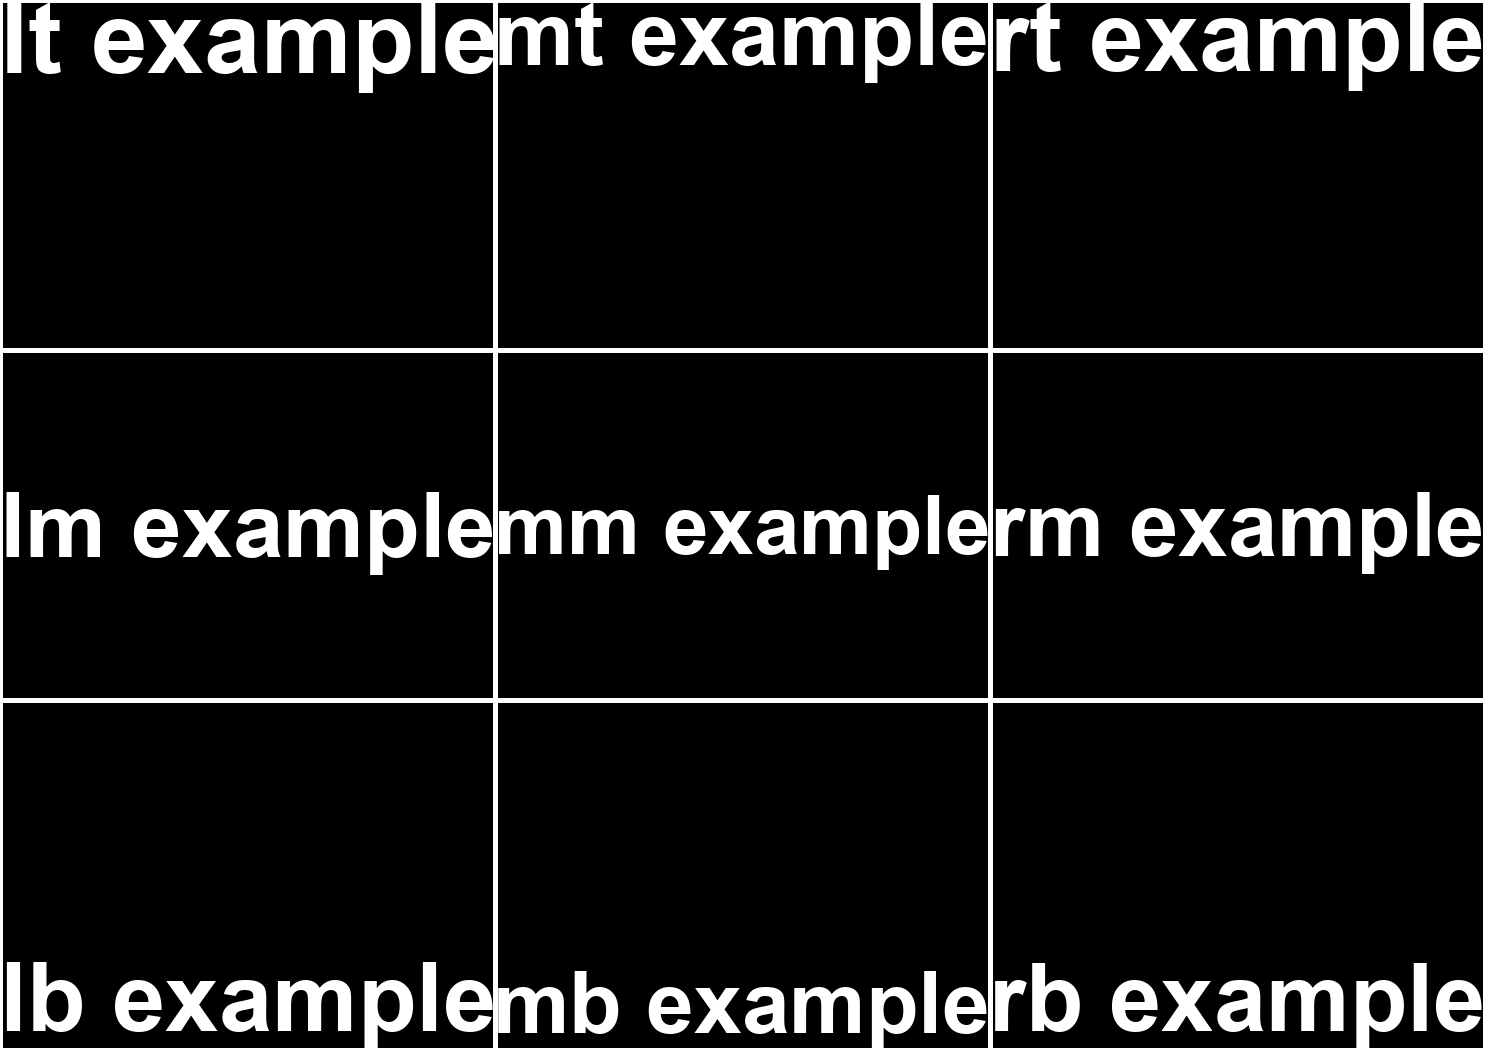
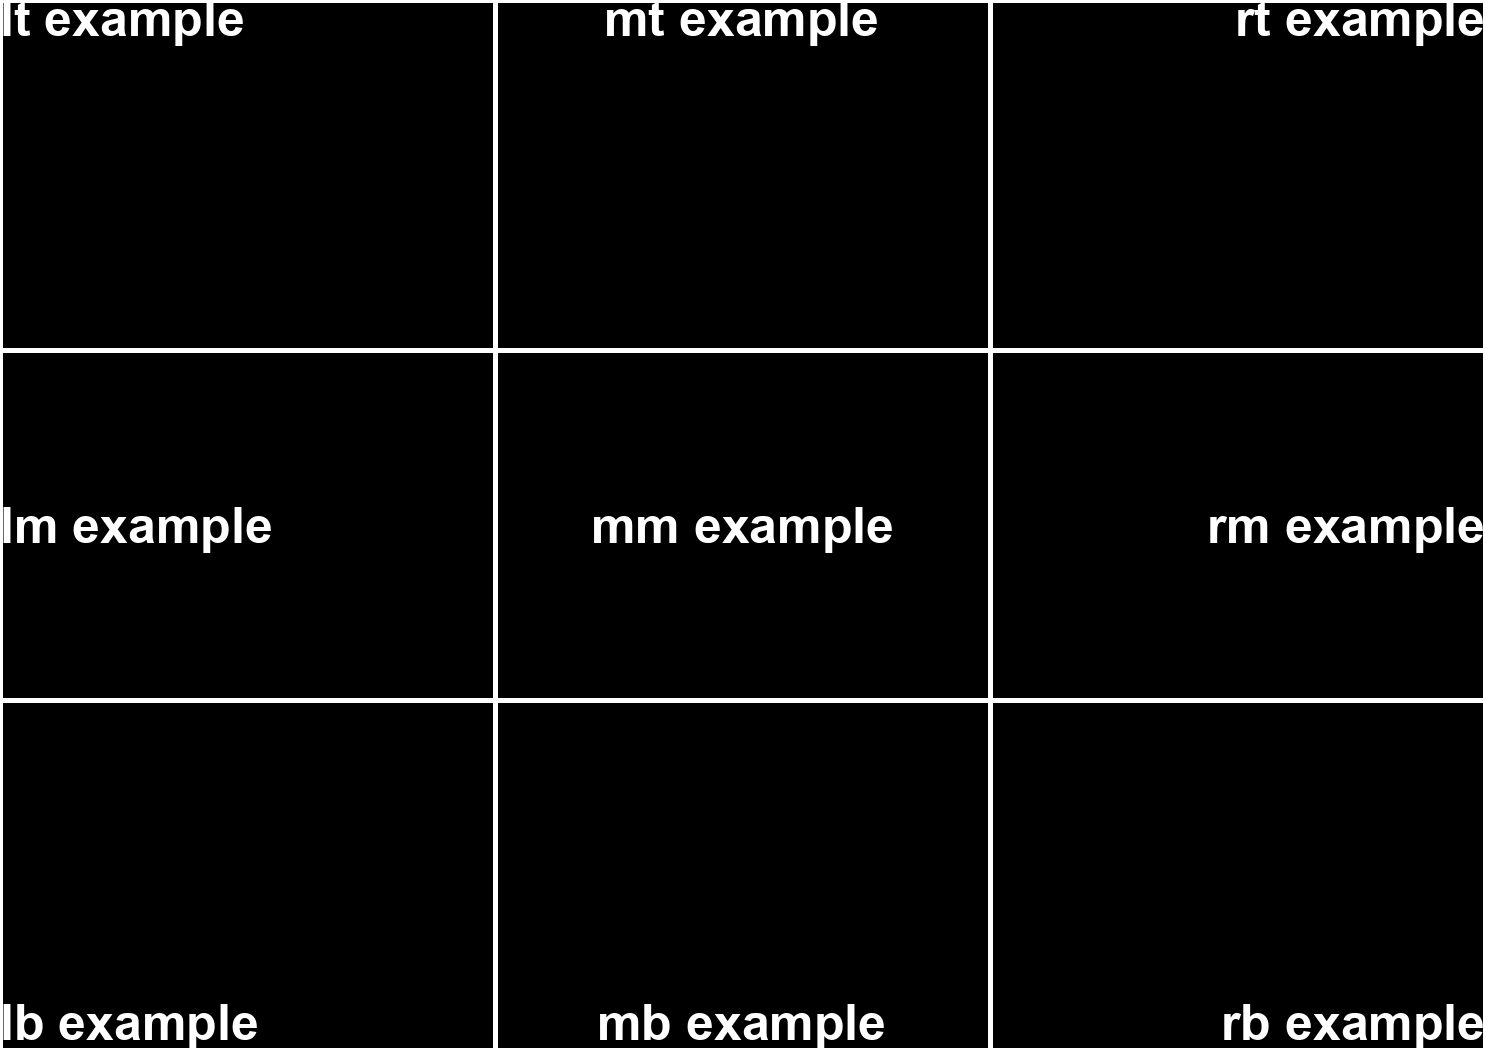
choitto onnazakari wo doishiyou

Changed region(s): [[0.0, 0.9143, 1.0, 1.0], [0.0, 0.0, 1.0, 0.0914], [0.0, 0.4571, 1.0, 0.5486]]

diff --git a/test/text_anchors.py b/test/text_anchors.py
@@ -37,11 +37,14 @@ def walk(
 ) -> None:
     for field_name, field_text in fields_text.items():
         field_attributes: TextConfig = fields_config[field_name]  # type: ignore
-        smack_draw.text(
-            data=field_text,
-            field_coords=fields_coords[field_name],
-            field_attributes=field_attributes,
-        )
+        for field_coords_type in fields_coords[field_name]:
+            field_coords = field_coords_type.coords
+            # field_type = field_coords_type.type
+            smack_draw.text(
+                data=field_text,
+                field_coords=field_coords,
+                field_attributes=field_attributes,
+            )
 
 
 for y_anchor in vertical_anchors:
@@ -59,7 +62,7 @@ for y_anchor in vertical_anchors:
             anchor=text_anchor,  # type: ignore
             style=TextStyle(fill="#fff"),
         )
-    data_field_fmt_rows.append(RelativeContainer(fr=1, cells=y_anchor_list))
+    data_field_fmt_rows.append(RelativeContainer(fr=1, cells=y_anchor_list, direction="lr"))
 
 data_field_fmt = RelativeDataFieldFormat(cells=data_field_fmt_rows)
 
@@ -77,12 +80,13 @@ walk(fields_text=fields_text, fields_coords=fields_coords, fields_config=fields_
 
 def draw_boxes() -> None:
     for field_coords in fields_coords.values():
-        draw.rectangle(field_coords.list(), outline="white", width=3)
-        # x1, y1, x2, y2 = field_coords.list()
-        # middle_x = round((x1 + x2) / 2)
-        # middle_y = round((y1 + y2) / 2)
-        # draw.line((middle_x, y1, middle_x, y2), fill="white", width=1)
-        # draw.line((x1, middle_y, x2, middle_y), fill="white", width=1)
+        for field_coords_type in field_coords:
+            draw.rectangle(field_coords_type.coords.list(), outline="white", width=3)
+            # x1, y1, x2, y2 = field_coords.list()
+            # middle_x = round((x1 + x2) / 2)
+            # middle_y = round((y1 + y2) / 2)
+            # draw.line((middle_x, y1, middle_x, y2), fill="white", width=1)
+            # draw.line((x1, middle_y, x2, middle_y), fill="white", width=1)
 
 
 draw_boxes()

diff --git a/test/text_anchors_multiline.py b/test/text_anchors_multiline.py
@@ -39,11 +39,14 @@ def walk(
 ) -> None:
     for field_name, field_text in fields_text.items():
         field_attributes: TextConfig = fields_config[field_name]  # type: ignore
-        smack_draw.text(
-            data=field_text,
-            field_coords=fields_coords[field_name],
-            field_attributes=field_attributes,
-        )
+        for field_coords_type in fields_coords[field_name]:
+            field_coords = field_coords_type.coords
+            # field_type = field_coords_type.type
+            smack_draw.text(
+                data=field_text,
+                field_coords=field_coords,
+                field_attributes=field_attributes,
+            )
 
 
 for y_anchor in vertical_anchors:
@@ -62,7 +65,7 @@ for y_anchor in vertical_anchors:
             break_text=True,
             style=TextStyle(fill="#fff"),
         )
-    data_field_fmt_rows.append(RelativeContainer(fr=1, cells=y_anchor_list))
+    data_field_fmt_rows.append(RelativeContainer(fr=1, cells=y_anchor_list, direction="lr"))
 
 data_field_fmt = RelativeDataFieldFormat(cells=data_field_fmt_rows)
 
@@ -76,12 +79,13 @@ walk(fields_text=fields_text, fields_coords=fields_coords, fields_config=fields_
 
 def draw_boxes() -> None:
     for field_coords in fields_coords.values():
-        draw.rectangle(field_coords.list(), outline="white", width=3)
-        # x1, y1, x2, y2 = field_coords.list()
-        # middle_x = round((x1 + x2) / 2)
-        # middle_y = round((y1 + y2) / 2)
-        # draw.line((middle_x, y1, middle_x, y2), fill="white", width=1)
-        # draw.line((x1, middle_y, x2, middle_y), fill="white", width=1)
+        for field_coords_type in field_coords:
+            draw.rectangle(field_coords_type.coords.list(), outline="white", width=3)
+            # x1, y1, x2, y2 = field_coords.list()
+            # middle_x = round((x1 + x2) / 2)
+            # middle_y = round((y1 + y2) / 2)
+            # draw.line((middle_x, y1, middle_x, y2), fill="white", width=1)
+            # draw.line((x1, middle_y, x2, middle_y), fill="white", width=1)
 
 
 draw_boxes()

diff --git a/test/text_anchors_inverted_multiline.py b/test/text_anchors_inverted_multiline.py
@@ -39,11 +39,14 @@ def walk(
 ) -> None:
     for field_name, field_text in fields_text.items():
         field_attributes: TextConfig = fields_config[field_name]  # type: ignore
-        smack_draw.text(
-            data=field_text,
-            field_coords=fields_coords[field_name],
-            field_attributes=field_attributes,
-        )
+        for field_coords_type in fields_coords[field_name]:
+            field_coords = field_coords_type.coords
+            # field_type = field_coords_type.type
+            smack_draw.text(
+                data=field_text,
+                field_coords=field_coords,
+                field_attributes=field_attributes,
+            )
 
 
 for y_anchor in vertical_anchors:
@@ -64,7 +67,7 @@ for y_anchor in vertical_anchors:
             inverted=True,
             style=TextStyle(fill="#fff"),
         )
-    data_field_fmt_rows.append(RelativeContainer(fr=1, cells=y_anchor_list))
+    data_field_fmt_rows.append(RelativeContainer(fr=1, cells=y_anchor_list, direction="lr"))
 
 data_field_fmt = RelativeDataFieldFormat(cells=data_field_fmt_rows)
 
@@ -78,12 +81,13 @@ walk(fields_text=fields_text, fields_coords=fields_coords, fields_config=fields_
 
 def draw_boxes() -> None:
     for field_coords in fields_coords.values():
-        draw.rectangle(field_coords.list(), outline="white", width=3)
-        # x1, y1, x2, y2 = field_coords.list()
-        # middle_x = round((x1 + x2) / 2)
-        # middle_y = round((y1 + y2) / 2)
-        # draw.line((middle_x, y1, middle_x, y2), fill="white", width=1)
-        # draw.line((x1, middle_y, x2, middle_y), fill="white", width=1)
+        for field_coords_type in field_coords:
+            draw.rectangle(field_coords_type.coords.list(), outline="white", width=3)
+            # x1, y1, x2, y2 = field_coords.list()
+            # middle_x = round((x1 + x2) / 2)
+            # middle_y = round((y1 + y2) / 2)
+            # draw.line((middle_x, y1, middle_x, y2), fill="white", width=1)
+            # draw.line((x1, middle_y, x2, middle_y), fill="white", width=1)
 
 
 draw_boxes()

diff --git a/examples/08_fields.py b/examples/08_fields.py
@@ -46,11 +46,14 @@ def walk(
 ) -> None:
     for field_name, field_text in fields_text.items():
         field_attributes: TextConfig = fields_config[field_name]  # type: ignore
-        smack_draw.text(
-            data=field_text,
-            field_coords=fields_coords[field_name],
-            field_attributes=field_attributes,
-        )
+        for field_coords_type in fields_coords[field_name]:
+            field_coords = field_coords_type.coords
+            # field_type = field_coords_type.type
+            smack_draw.text(
+                data=field_text,
+                field_coords=field_coords,
+                field_attributes=field_attributes,
+            )
 
 
 fields_text = {
@@ -117,12 +120,13 @@ walk(fields_text=fields_text, fields_coords=fields_coords, fields_config=fields_
 
 def draw_boxes() -> None:
     for field_coords in fields_coords.values():
-        draw.rectangle(field_coords.list(), outline="white", width=3)
-        # x1, y1, x2, y2 = field_coords.list()
-        # middle_x = round((x1 + x2) / 2)
-        # middle_y = round((y1 + y2) / 2)
-        # draw.line((middle_x, y1, middle_x, y2), fill="white", width=1)
-        # draw.line((x1, middle_y, x2, middle_y), fill="white", width=1)
+        for field_coords_type in field_coords:
+            draw.rectangle(field_coords_type.coords.list(), outline="white", width=3)
+            # x1, y1, x2, y2 = field_coords.list()
+            # middle_x = round((x1 + x2) / 2)
+            # middle_y = round((y1 + y2) / 2)
+            # draw.line((middle_x, y1, middle_x, y2), fill="white", width=1)
+            # draw.line((x1, middle_y, x2, middle_y), fill="white", width=1)
 
 
 draw_boxes()

diff --git a/imagesmacker/draw.py b/imagesmacker/draw.py
@@ -434,10 +434,10 @@ class Draw:
 
     def data(
         self,
-        type: str,
         data: str,
         field_coords: RectangleCoordinates,
         field_attributes: FieldConfig,
+        type: str = "text",
     ) -> None:
         fn: Callable[..., None]
         extracted_field_attributes: Any

diff --git a/examples/02_text.py b/examples/02_text.py
@@ -15,7 +15,7 @@ draw = Draw(image)
 field_attributes = FieldConfig(
     text=TextConfig(
         font=f"{parent_dir_nth_times(__file__, 2)}/assets/fonts/arial bold.ttf",
-        max_font_size=1,
+        max_font_size=50,
         anchor="mm",
         style=TextStyle(fill="#fff"),
     ),

diff --git a/examples/07_Code128.py b/examples/07_Code128.py
@@ -22,7 +22,7 @@ margin = 25
 margin_x2 = margin * 2
 
 draw.data(
-    type="barcode:code128",
+    type="barcode.code128",
     data=data,
     field_coords=XYWH(
         margin,

diff --git a/examples/06_QR_code.py b/examples/06_QR_code.py
@@ -23,7 +23,7 @@ margin_x2 = margin * 2
 
 draw.data(
     data=data,
-    type="barcode:qr",
+    type="barcode.qr",
     field_coords=XYWH(
         margin,
         margin,

diff --git a/docs/changelog.md b/docs/changelog.md
@@ -24,6 +24,7 @@ This software uses [Semantic Versioning v2.0.0](https://semver.org/spec/v2.0.0.h
 - Changed delimiter of data types in `imagesmacker.draw.check_if_type_in_field_attrs` from `:` (colon) to `.` (dot)
 - Changed `imagesmacker.fields.relative_field_formatting` output to allow for cells with the same name
 - Modified `imagesmacker.fields.FieldsCoords` to include `imagesmacker.fields.FieldCoords` in it
+- Changed `imagesmacker.draw.Draw.data` parameter `type` to default to `"text"`
 
 ### Fixed
 
